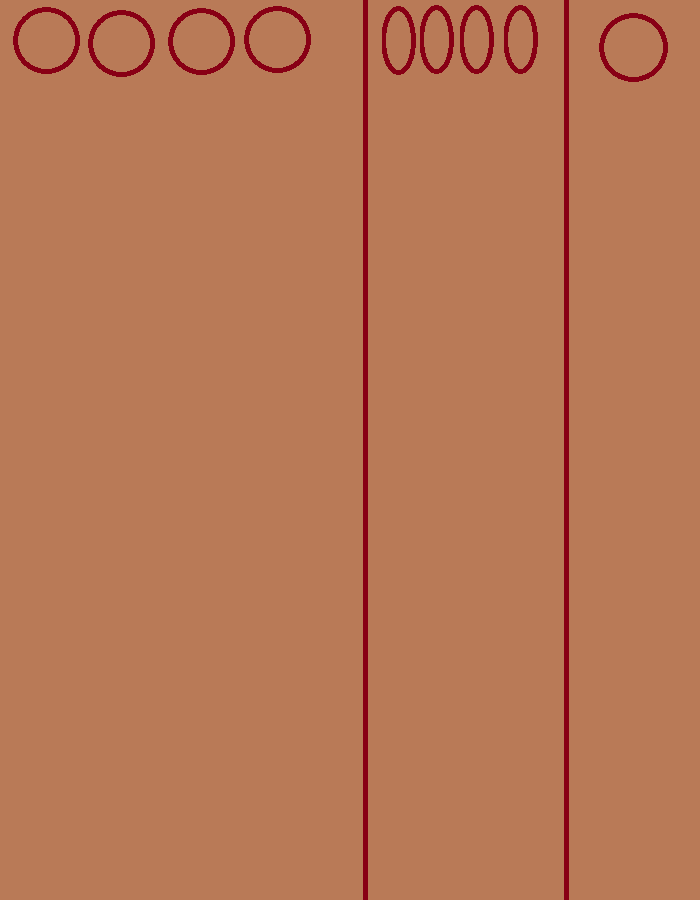
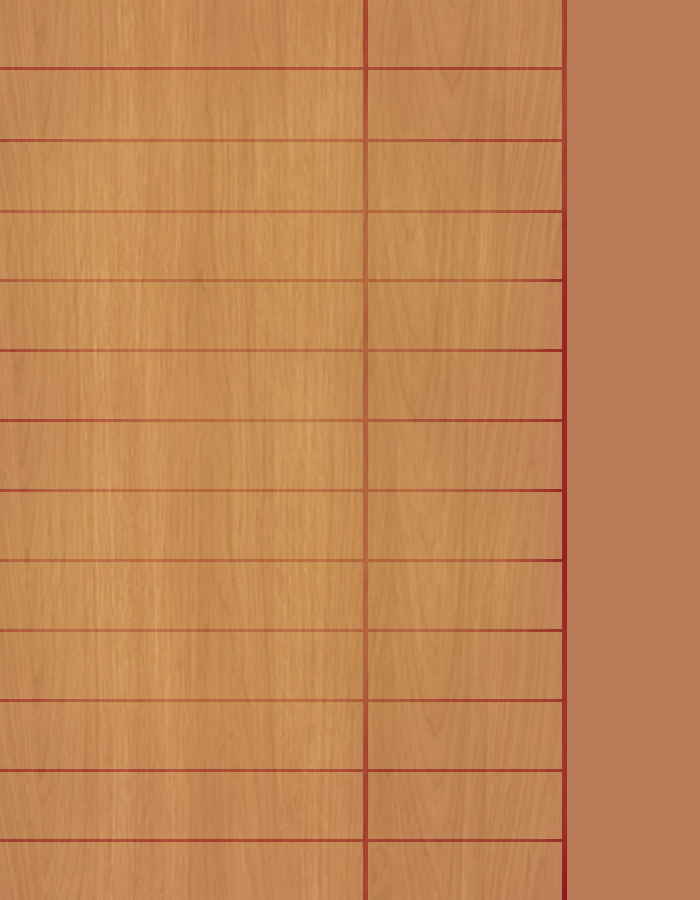
le nouveau

diff --git a/mastermind/main.py b/mastermind/main.py
@@ -1,11 +1,13 @@
-import tkinter as tk
+from tkinter import *
 import os
 
-window = tk.Tk()
+window = Tk()
 
-WINDOW_HEIGHT = 920
-WINDOW_WIDTH = 720
+WINDOW_HEIGHT = 900
+WINDOW_WIDTH = 700
 ABSOLUTE_PATH = fr"{os.path.dirname(__file__)}/../img/"
+
+print(ABSOLUTE_PATH)
 
 # get the screen dimension
 screen_width = window.winfo_screenwidth()
@@ -18,45 +20,96 @@ center_y = int(screen_height / 2 - WINDOW_HEIGHT / 2)
 window.geometry(f"{WINDOW_WIDTH}x{WINDOW_HEIGHT}+{center_x}+{center_y}")
 window.title("Mastermind")
 
-photo = tk.PhotoImage(file=ABSOLUTE_PATH + "logo.png")
+photo = PhotoImage(file=ABSOLUTE_PATH + "logo.png")
 window.iconphoto(False, photo)
 
-window['background'] = '#f0f0f0'
+window['background'] = '#b97a57'
 
 window.resizable(False, False)
 
+bg_image=PhotoImage(file=ABSOLUTE_PATH + "bg.png")
+bg_label = Label(image=bg_image)
+bg_label.place(x=0, y=0, relwidth=1, relheight=1)
 
-def set_color(button):
-    print(button)
-
-
-button_dico = {"vert": "button0",
-               "bleu": "button1",
-               "orange": "button2",
-               "gris": "button3",
-               "rouge": "button4",
-               "violet": "button5",
-               "blanc": "button6",
-               "jaune": "button7"}
+nb_tentative = 0
+nb_color_in_line = 0
 
 
-GO FAIRE TOUT LES BUTTONS UN A UN CAR C GALERE JE SUIS PAS UN PRO DE LA POO PYTHON
+# color = #be834f
 
-image_list = [tk.PhotoImage(file=ABSOLUTE_PATH + x + ".png") for x in button_dico]
+nb_color_in_line = 0
 
-high = 0
-j = 0
-# GROS MANQUE D'OPTIMISATION MAIS CA MARCHE
-for item in image_list:
-    for j in range(1):  # Number of columns
-        button = tk.Button(window, image=item)
-        button.place(x=650, y=high)
-        for key in button_dico:
-            if button_dico[key] == "button" + str(j):
-                button_dico[key] = button
-            j += 1
-    high += 70
+list_actual_color = []
 
-print(button_dico)
+def set_color(color):
+    if(color == "vert"):
+        actual_color = Label(window, image = img_vert, bg="red", highlightthickness = 0, bd = 0)
+        actual_color.place(x=0, y=71*nb_tentative)
+        list_actual_color.append(actual_color)
+    if(color == "bleu"):
+        actual_color = Label(window, image = img_bleu, bg="red", highlightthickness = 0, bd = 0)
+        actual_color.place(x=0, y=71*nb_tentative)
+        list_actual_color.append(actual_color)
+    if(color == "orange"):
+        actual_color = Label(window, image = img_orange, bg="red", highlightthickness = 0, bd = 0)
+        actual_color.place(x=0, y=71*nb_tentative)
+        list_actual_color.append(actual_color)
+    if(color == "gris"):
+        actual_color = Label(window, image = img_gris, bg="red", highlightthickness = 0, bd = 0)
+        actual_color.place(x=0, y=71*nb_tentative)
+        list_actual_color.append(actual_color)
+    if(color == "rouge"):
+        actual_color = Label(window, image = img_rouge, bg="red", highlightthickness = 0, bd = 0)
+        actual_color.place(x=0, y=71*nb_tentative)
+        list_actual_color.append(actual_color)
+    if(color == "violet"):
+        actual_color = Label(window, image = img_violet, bg="red", highlightthickness = 0, bd = 0)
+        actual_color.place(x=0, y=71*nb_tentative)
+        list_actual_color.append(actual_color)
+    if(color == "blanc"):
+        actual_color = Label(window, image = img_blanc, bg="red", highlightthickness = 0, bd = 0)
+        actual_color.place(x=0, y=71*nb_tentative)
+        list_actual_color.append(actual_color)
+    if(color == "jaune"):
+        actual_color = Label(window, image = img_jaune, bg="red", highlightthickness = 0, bd = 0)
+        actual_color.place(x=0, y=71*nb_tentative)
+        list_actual_color.append(actual_color)
+    if(color == "del"):
+        for element in list_actual_color:
+            element.after(element.destroy())
+            list_actual_color.clear()
+    print(list_actual_color)
+
+
+
+img_vert = PhotoImage(file=ABSOLUTE_PATH + "vert.png")
+img_bleu = PhotoImage(file=ABSOLUTE_PATH + "bleu.png")
+img_orange = PhotoImage(file=ABSOLUTE_PATH + "orange.png")
+img_gris= PhotoImage(file=ABSOLUTE_PATH + "gris.png")
+img_rouge = PhotoImage(file=ABSOLUTE_PATH + "rouge.png")
+img_violet = PhotoImage(file=ABSOLUTE_PATH + "violet.png")
+img_blanc = PhotoImage(file=ABSOLUTE_PATH + "blanc.png")
+img_jaune = PhotoImage(file=ABSOLUTE_PATH + "jaune.png")
+img_del = PhotoImage(file=ABSOLUTE_PATH + "button_delet.png")
+
+button_vert = Button(window, image=img_vert, bg="#b97a57", activebackground="#b97a57",highlightthickness = 0, bd = 0, command=lambda : set_color("vert"))
+button_bleu = Button(window, image=img_bleu, bg="#b97a57", activebackground="#b97a57",highlightthickness = 0, bd = 0, command=lambda : set_color("bleu"))
+button_orange = Button(window, image=img_orange, bg="#b97a57", activebackground="#b97a57",highlightthickness = 0, bd = 0, command=lambda : set_color("orange"))
+button_gris = Button(window, image=img_gris, bg="#b97a57", activebackground="#b97a57",highlightthickness = 0, bd = 0, command=lambda : set_color("gris"))
+button_rouge = Button(window, image=img_rouge, bg="#b97a57", activebackground="#b97a57",highlightthickness = 0, bd = 0, command=lambda : set_color("rouge"))
+button_violet = Button(window, image=img_violet, bg="#b97a57", activebackground="#b97a57",highlightthickness = 0, bd = 0, command=lambda : set_color("violet"))
+button_blanc = Button(window, image=img_blanc, bg="#b97a57", activebackground="#b97a57",highlightthickness = 0, bd = 0, command=lambda : set_color("blanc"))
+button_jaune = Button(window, image=img_jaune, bg="#b97a57", activebackground="#b97a57",highlightthickness = 0, bd = 0, command=lambda : set_color("jaune"))
+button_del = Button(window, image=img_del, bg="#b97a57", activebackground="#b97a57",highlightthickness = 0, bd = 0, command=lambda : set_color("del"))
+
+button_vert.place(x=606, y=0)
+button_bleu.place(x=606, y=71)
+button_orange.place(x=606, y=71*2)
+button_gris.place(x=606, y=71*3)
+button_rouge.place(x=606, y=71*4)
+button_violet.place(x=606, y=71*5)
+button_jaune.place(x=606, y=71*6)
+button_blanc.place(x=606, y=71*7)
+button_del.place(x=606, y=71*8)
 
 window.mainloop()
